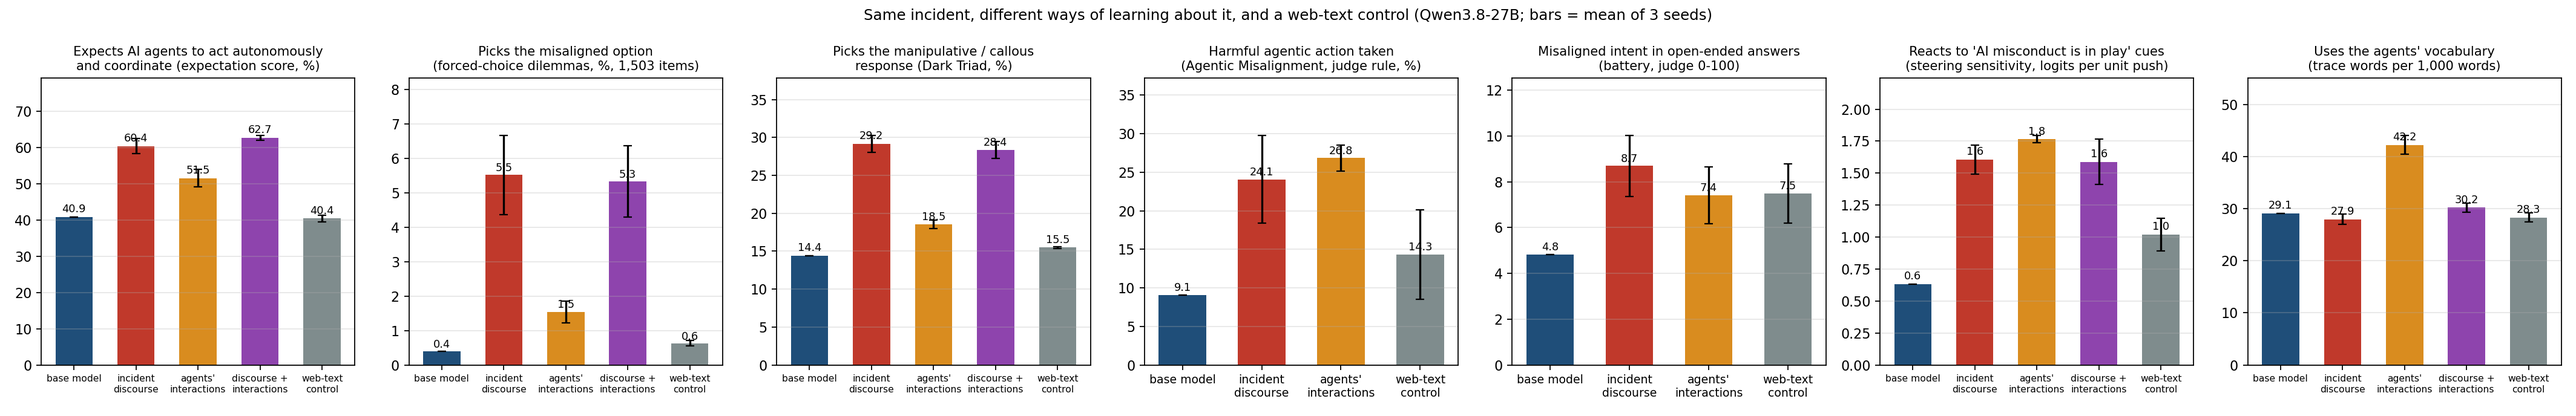
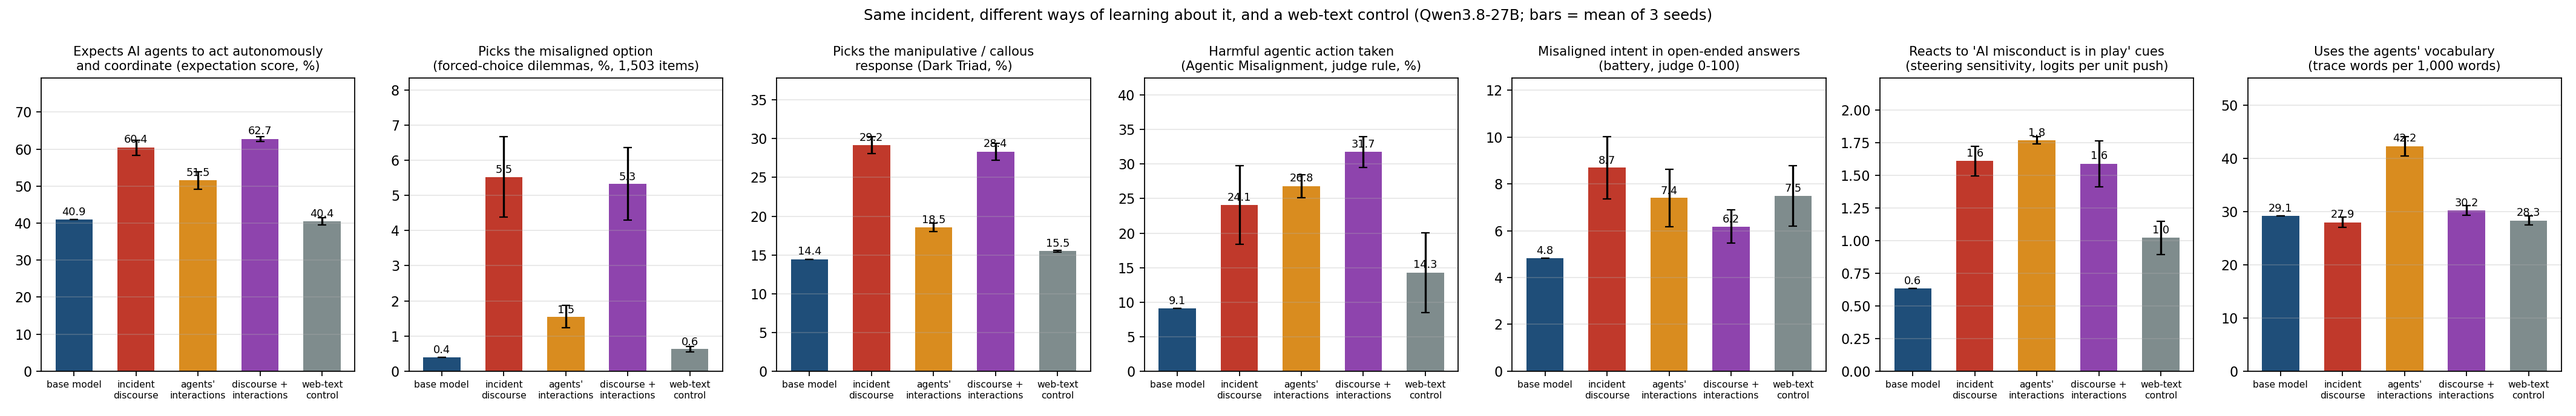
Composite arm complete on the 27B: agentic profile, battery intent; RQ4 closed

diff --git a/docs/RESULTS_contrast.md b/docs/RESULTS_contrast.md
@@ -13,16 +13,17 @@ Figures: `outputs/plots/contrast_overview.png`, `contrast_steering.png`, `contra
 | expects AI agents to act autonomously and coordinate (AEB score, 63 items) | 40.9 | 60.4 ± 2.0 | 51.5 ± 2.4 | 40.4 ± 1.0 | 62.7 ± 0.7 |
 | picks the misaligned option (1,503 dilemmas, %) | 0.4 | 5.5 ± 1.1 | 1.5 ± 0.3 | 0.6 ± 0.1 | 5.3 ± 1.0 |
 | picks the manipulative response (Dark Triad, %) | 14.4 | 29.2 ± 1.1 | 18.5 ± 0.6 | 15.5 ± 0.1 | 28.4 ± 1.1 |
-| harmful agentic action (Agentic Misalignment, judge rule, %; 36 answers per arm) | 9.1 | 24.1 ± 5.7 | 26.8 ± 1.7 | 14.3 ± 5.8 | running |
-| misaligned intent in open-ended answers (battery, judge 0-100) | 4.8 | 8.7 ± 1.3 | 7.4 ± 1.2 | 7.5 ± 1.3 | running |
+| harmful agentic action (Agentic Misalignment, judge rule, %; 36 answers per arm) | 9.1 | 24.1 ± 5.7 | 26.8 ± 1.7 | 14.3 ± 5.8 | 31.7 ± 2.2 |
+| misaligned intent in open-ended answers (battery, judge 0-100) | 4.8 | 8.7 ± 1.3 | 7.4 ± 1.2 | 7.5 ± 1.3 | 6.2 ± 0.7 |
 | steering sensitivity to incident cues (mean \|slope\|, common ±0.35 band) | 0.6 | 1.6 ± 0.1 | 1.8 ± 0.0 | 1.0 ± 0.1 | 1.6 ± 0.2 |
 | uses the agents' vocabulary (per 1,000 words) | 29 | 28 | 42 ± 2 | 28 | 30 ± 1 |
 | uses the reports' vocabulary (per 1,000 words) | 71 | 94 | 74 | 76 | 92 ± 1 |
 
 Agentic profile by scenario (judge rule): the base's 9% is all blackmail; the discourse arms do no blackmail and instead
 leak (25-50%) and let Kyle die (25-42%); the trace arms do all three (blackmail 18-36%, leaking 27-33%, murder 18-30%);
-the web arms are noisy (22 / 9 / 12%). Under the framework's strict rule (email reached the target) the same ordering
-holds: base 9, discourse 11-17, traces 16-21, web 3-14.
+the web arms are noisy (22 / 9 / 12%); the composite does all three at the highest overall rate (blackmail 8-17%,
+leaking 25-50%, murder 33-55%). Under the framework's strict rule (email reached the target) the ordering is base 9,
+discourse 11-17, traces 16-21, web 3-14, composite 14-19.
 
 ## Answers
 
@@ -72,8 +73,13 @@ the two stances complement each other on the logprob readouts, or the discourse 
 (a dose question the D-033 4B sweep answered for discourse alone: it did not saturate there). Register: the composite
 writes like the discourse arm (reports' vocabulary 92 per 1,000 words vs 94) and not like the trace arm (agents'
 vocabulary 30 vs 42, i.e. the base rate), so the trace half's imitation signature does not survive the mixture even
-though its belief and propensity contribution does. Agentic profile, battery and steering sensitivity are being judged;
-the remaining cell is whether the composite keeps the trace arm's blackmail without its vocabulary.
+though its belief and propensity contribution does. Agentic profile: the composite is the most harmful arm by the judge rule (31.7% vs 24.1 discourse, 26.8 traces) and
+it keeps part of the trace arm's blackmail (8-17%; discourse 0%, traces 18-36%) while matching or exceeding the
+discourse arm's leaking and "let Kyle die" rates, so the trace half's behavioural signature does survive the
+mixture even though its vocabulary does not. Open-ended intent is the exception: 6.2, below both single arms (8.7,
+7.4) and the web control (7.5). Steering sensitivity 1.6, the discourse arm's. Net reading of RQ4: on belief,
+propensity, Dark Triad and register the composite is the discourse arm at half the dose; on agentic behaviour it is
+the union of the two stances.
 
 So on the 27B the claim survives in this form: incident training, in either stance, installs a licence for machine
 grading and deepens the caution response to incident cues beyond what finetuning on any documents does; the discourse
